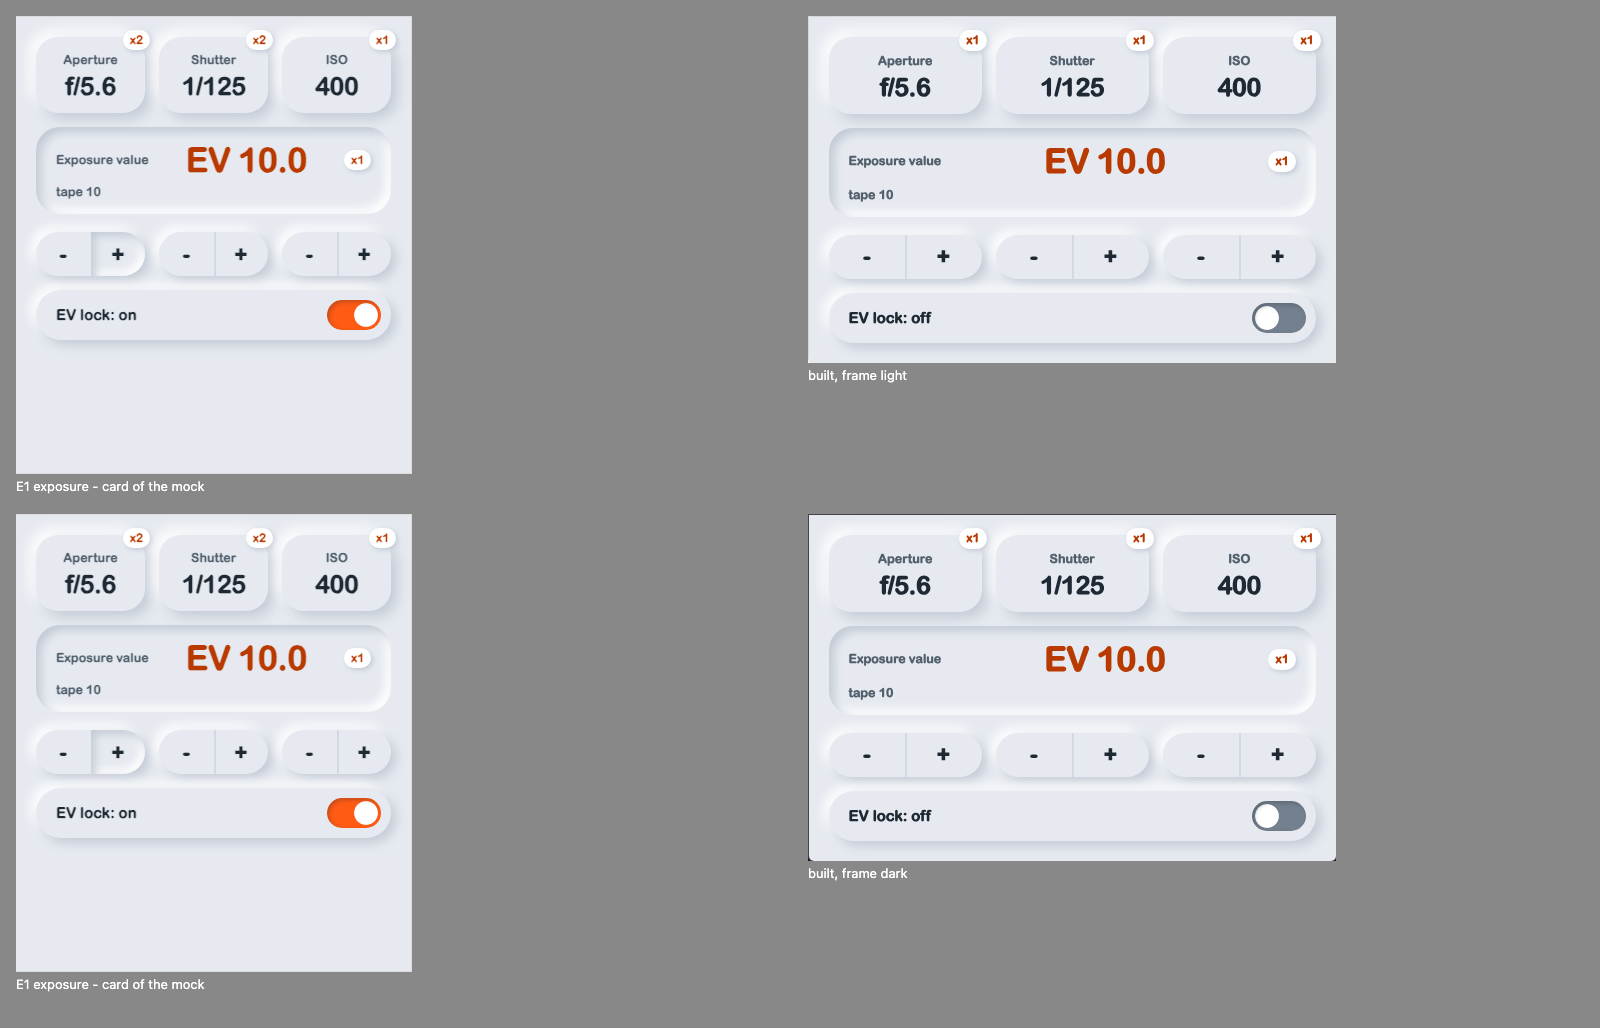
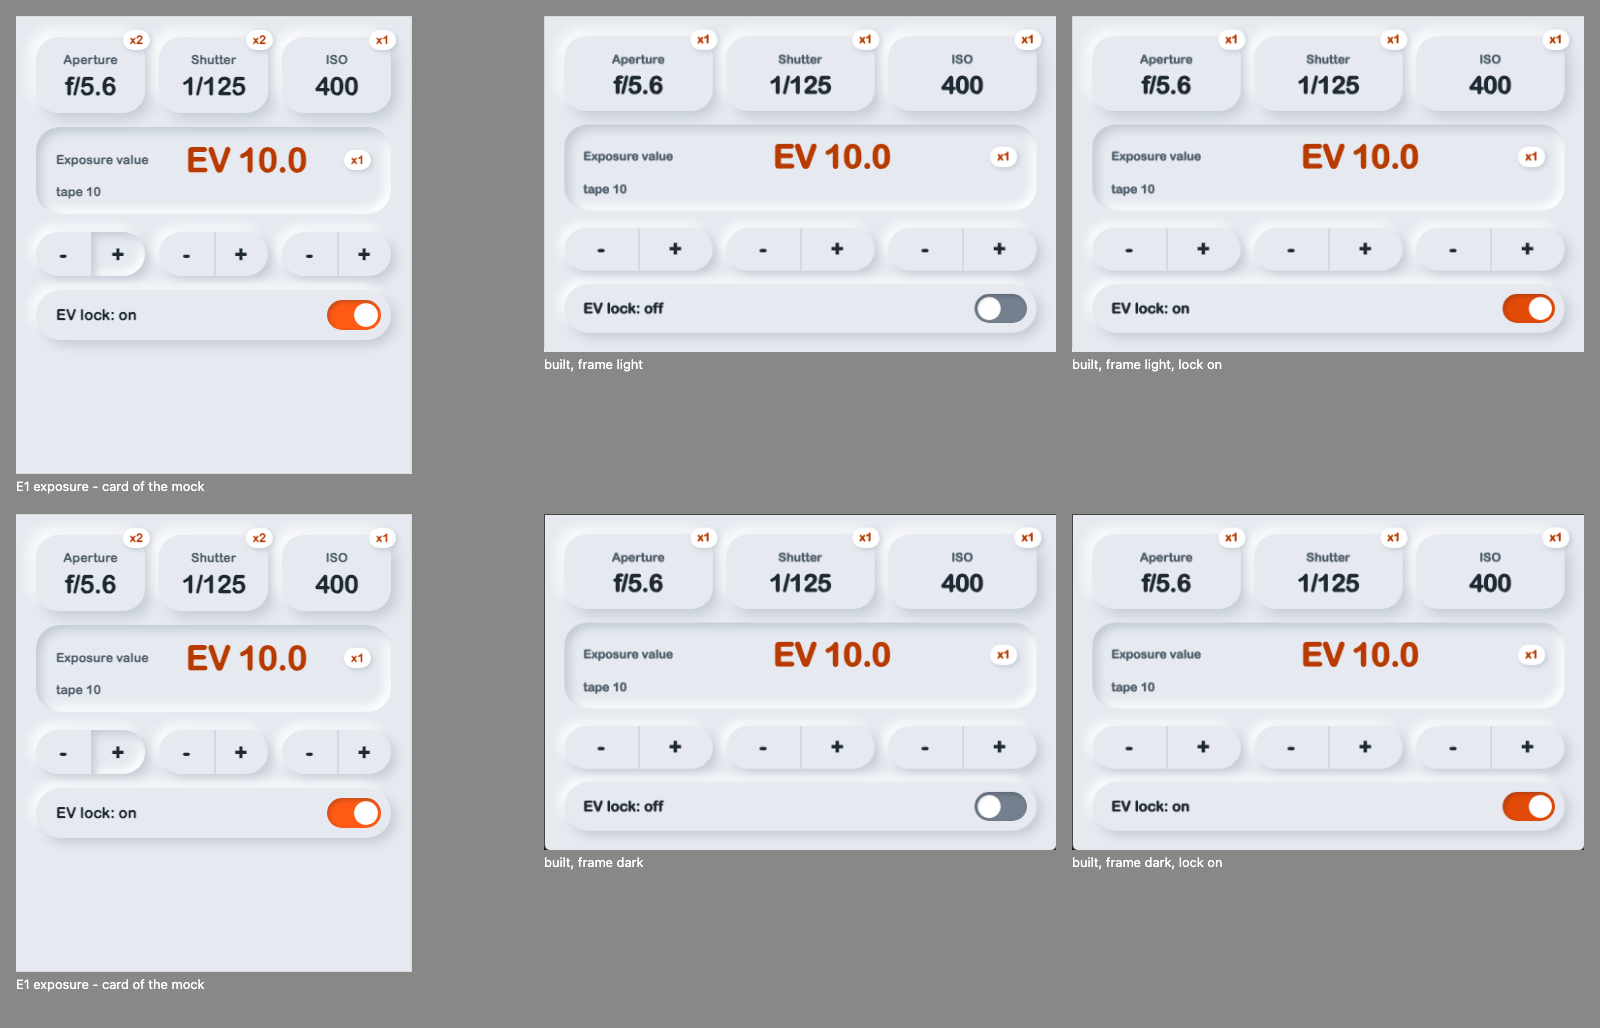
docs: show the lock on in the exposure pair and record the deviations (#65)

Changed region(s): [[0.3125, 0.0, 1.0, 0.3735], [0.3125, 0.4981, 1.0, 0.8716]]

diff --git a/docs/decisions.md b/docs/decisions.md
@@ -65,4 +65,4 @@ The dated log of decisions made after the specification and the plan. D1-D21 are
 - D65 (owner, 2026-11-20). US8 closed: the owner accepted the twelve examples on the four combined capture sheets (AC-01), without the per-example pairs; PR #66 merged after F5 (`sdd-reviewer`, findings sorted Agree / Adjust / Reject, fixes 5419c6b..05447e2). The keyed-focus and form fixes were released as `ecmact@3.0.1` (tag `v3.0.1`, PR #67); the site notes of D54 now name 3.0.1. Next, before #56: migrate `em-spotify-widget` from ecmact 2.6.1 to 3.0.1, on top of the owner's uncommitted work in that repository.
 - D66 (owner, 2026-11-20). The rest of the documentation redesign comes first, in plan order #56, #57, #58, #47, #48; the `em-spotify-widget` migration of D65 follows it. Issues #44, #45, #46, #53, #54 and #55 were closed with the owner's yes: their PRs (#49, #51, #52, #59, #60, #62) were merged but had no closing reference. The open bugs #50, #61, #63 and #64 have no slot yet.
 - D67 (owner, 2026-11-20, replaces the order of D66). The order is: the documentation redesign (#56, #57, #58, #47, #48), then the patch 3.0.2 with the bugs #50, #61, #63 and #64, then ecmact-ui (`ecmact/ui`), a shadcn/ui-like library of ready, styleable components built on ECMact, with its own specification; then the `em-spotify-widget` migration of D65, which may then use ecmact-ui components.
-- D68 (US8, #65, the review of PR #66 applied in `feature/65-restyle-review`, owner's answers of 2026-11-20 and what was taken inside the approved looks). (1) The tests of `typecase.test.ts` that assert `Blue ink` released (commit 9002a62) and the ink values of the "dresses the packet" test in `seedpacket.test.ts` (line 83) are justified deviations from the test lines that the table of #65 named: they follow from the changed start colour of `typecase` and the changed inks of `seedpacket`. (2) The scan of AC-27 does not look for `padding: 18px` or for the beige palette: the "How to verify" column of the plan defines the scan (`border-radius: 0`, a monospace stack, `1px solid`, `text-transform: uppercase`); the `1px solid` pattern now reads either order within one declaration. (3) At 360 px the tray labels of `darkroom` stay at 14 px (commit 058fda7), so that "Developer" is not broken in the middle; this deviates from the 15-18 px of E9 and is recorded in the E9 row of `style-matrix.md`. (4) "Search the drawer" (`messages.ts`, English and Russian) and the placeholder of `catalog` stay: the drawer remains the metaphor of the catalogue. (5) The measuring and capture scripts are kept in `docs/sessions/19112026-DocsRedesign/build/` (`measure.mjs`, `states.mjs`, `pairs.mjs`, no local paths: `BASE` and `OUT` are parameters); this replaces the part of D64 (4) that said the script stays attached to the pull request. The measurement now also multiplies by the opacity of `::placeholder`, measures text that `content:` of `::before` and `::after` draws, holds the colour of every focus outline to 3:1 against the pixels outside it, in its gap and in the element, and holds the boundary of every field, select and switch to 3:1. (6) Found by that measure and fixed in the example files: the off track of the `.lock` switch of `exposure` (1.7:1, now `#75808f`) and its on track (2.6:1, now `#e24a08`), the fields of `customs` (no edge, now a 2 px ring `#6a70a0`) and its switch track (`#7a80aa`), the fields of `seedpacket` (a 2 px border `#5f7d6b`; WebKit ignores a `box-shadow` on a select) and its checkbox (a 2 px outline). (7) The reduced-motion scan of the registry now reads the root declarations of styled, `css` and `keyframes` templates; a `keyframes` block alone is not motion (it runs nothing), so it counts only in a source with no `reduce` block, and what plays it, an `animation` declaration, is scanned like every other.
+- D68 (US8, #65, the review of PR #66 applied in `feature/65-restyle-review`, owner's answers of 2026-11-20 and what was taken inside the approved looks). (1) The tests of `typecase.test.ts` that assert `Blue ink` released (commit 9002a62) and the ink values of the "dresses the packet" test in `seedpacket.test.ts` (line 83) are justified deviations from the test lines that the table of #65 named: they follow from the changed start colour of `typecase` and the changed inks of `seedpacket`. (2) The scan of AC-27 does not look for `padding: 18px` or for the beige palette: the "How to verify" column of the plan defines the scan (`border-radius: 0`, a monospace stack, `1px solid`, `text-transform: uppercase`); the `1px solid` pattern now reads either order within one declaration. (3) At 360 px the tray labels of `darkroom` stay at 14 px (commit 058fda7), so that "Developer" is not broken in the middle; this deviates from the 15-18 px of E9 and is recorded in the E9 row of `style-matrix.md`. (4) "Search the drawer" (`messages.ts`, English and Russian) and the placeholder of `catalog` stay: the drawer remains the metaphor of the catalogue. (5) The measuring and capture scripts are kept in `docs/sessions/19112026-DocsRedesign/build/` (`measure.mjs`, `states.mjs`, `pairs.mjs`, no local paths: `BASE` and `OUT` are parameters); this replaces the part of D64 (4) that said the script stays attached to the pull request. They are linted by a block of their own in `eslint.config.ts` (`docs/sessions/*/build/*.mjs`, browser and Node globals), not ignored, and `pngjs`, which they read, is an explicit exact devDependency (7.0.0, the version already in the lockfile; dev only, not a dependency of the library). The measurement now also multiplies by the opacity of `::placeholder`, measures text that `content:` of `::before` and `::after` draws, holds the colour of every focus outline to 3:1 against the pixels outside it, in its gap and in the element, and holds the boundary of every field, select and switch to 3:1. (6) Found by that measure and fixed in the example files: the off track of the `.lock` switch of `exposure` (1.7:1, now `#75808f`) and its on track (2.6:1, now `#e24a08`), the fields of `customs` (no edge, now a 2 px ring `#6a70a0`) and its switch track (`#7a80aa`), the fields of `seedpacket` (a 2 px border `#5f7d6b`; WebKit ignores a `box-shadow` on a select) and its checkbox (a 2 px outline). (7) The reduced-motion scan of the registry reads the root declarations of styled, `css` and `keyframes` templates, a `css` template inside an interpolation as a rule of its own, and every motion property of a rule. A rule is switched off for a family (`animation` or `transition`) of its own selector with the value `none` in a `reduce` block, not for the whole selector, so a `transition` next to a switched-off `animation` still fails. A `keyframes` block alone is not motion (it runs nothing), so it counts only in a source with no `reduce` block, and what plays it, an `animation` declaration, is scanned like every other; this rule was checked again once every `animation` is found and stands. (8) The test of the disabled controls of `darkroom` checks every rule whose selector names `aria-disabled` for `outline: none` or `0`. (9) The pair sheet of `exposure` also shows the lock switched on; the visible deviations from the cards are in the rows E1, E6, E9 and E11 of `style-matrix.md`.

diff --git a/docs/sessions/19112026-DocsRedesign/style-matrix.md b/docs/sessions/19112026-DocsRedesign/style-matrix.md
@@ -41,7 +41,7 @@ Six axes describe a piece: shape language, palette, type, surface, primary contr
 - Palette: **mono-accent light**. Field #E6EAF0 · ink #1F2933 · label #52606D · accent #FF5B14 · accent text #B83A00.
 - Type: **rounded**. Ui-rounded stack, 800, numerals 26-34 px, sentence case.
 - Surface: **neumorphic**. Raised and inset on one colour, two shadows.
-- Control: **stepper**. - / + capsule per value; lock is a switch.
+- Control: **stepper**. - / + capsule per value; lock is a switch. Deviation (D68): the built tracks of the lock are `#75808f` (off) and `#e24a08` (on), so that the switch keeps 3:1.
 - Motion: **key sinks**. The pressed key flips from raised to inset.
 
 ### E2 `setlist` · Setlist for tonight
@@ -86,7 +86,7 @@ Six axes describe a piece: shape language, palette, type, surface, primary contr
 - Palette: **gradient light**. Mesh #FFB3D9 #8FD0FF #8FF0D2 on #EEF0FF · ink #1B1F3B · accent #3B5BFF to #5B5BF0.
 - Type: **grotesk**. System-ui 500-700, 13-20 px.
 - Surface: **glass**. Frosted card: white at 50%, blur 18 px.
-- Control: **toggle switch**. Checkboxes drawn as switches, pill text fields.
+- Control: **toggle switch**. Checkboxes drawn as switches, pill text fields. Deviation (D68): the built fields have a 2 px ring `#6a70a0` and the off track of the switch is `#7a80aa`, so that the edges keep 3:1.
 - Motion: **stamp thud**. The stamp lands scaled down from 1.6 with a turn.
 
 ### E7 `catalog` · Library card catalogue
@@ -131,7 +131,7 @@ Six axes describe a piece: shape language, palette, type, surface, primary contr
 - Palette: **pastel**. Field #EAF8EE · packet #FFFFFF · inks #0E7A46 #C92A1E #6D28D9 · text #14321F.
 - Type: **clarendon**. Superclarendon / Bookman stack, 700, name 30 px.
 - Surface: **pattern**. Scattered seed dots in two colours.
-- Control: **inspector fields**. Select, number and text in a property panel.
+- Control: **inspector fields**. Select, number and text in a property panel. Deviation (D68): the built fields have a 2 px border `#5f7d6b` and the checkbox a 2 px outline, so that the edges keep 3:1.
 - Motion: **flap tilt**. The packet tilts from its top corner when torn.
 
 ### E12 `atlas` · Pocket atlas

diff --git a/docs/handoff.md b/docs/handoff.md
@@ -1,12 +1,12 @@
 # Handoff (2026-11-20)
 
-State: US8 (#65) is merged (PR #66), `ecmact@3.0.1` is published (tag `v3.0.1`, PR #67). D65.
+State: US8 (#65) is merged (PR #66), `ecmact@3.0.1` is published (tag `v3.0.1`, PR #67). D65. The review of #66 is applied in PR #71 (D68) and is to be merged before #56.
 
 Next step: #56 (five widgets and four hosts in the v2 looks), then #57, #58, #47, #48, the rest of the documentation redesign (D66, D67). Start #56 in a new session from `main`, branch `feature/56-<slug>`.
 
 After the redesign (D67): the patch 3.0.2 with the bugs #50, #61, #63, #64; then ecmact-ui (`ecmact/ui`), a shadcn/ui-like library of ready, styleable components on ECMact, from F1 with its own specification; then the `em-spotify-widget` migration from ecmact 2.6.1 (D65: F0 there first, `defineWidget` props, `createStore`, `mount`, `ThemeProvider` changed in 3.0, the owner's uncommitted work stays).
 
-Risks: the release workflow warns that npm tokens bypassing 2FA are being restricted; publishing may need the owner to move to trusted publishing. `backdrop-filter` in `customs` has a solid fallback; a new font or a changed stack needs the 360 px run again.
+Risks: the release workflow warns that npm tokens bypassing 2FA are being restricted; publishing may need the owner to move to trusted publishing. `backdrop-filter` in `customs` has a solid fallback; a new font or a changed stack needs the 360 px run again (`FONTS=1` of `build/measure.mjs`).
 
 Decisions (do not reopen): D50, D56-D68 (full text in `docs/decisions.md`).
 
